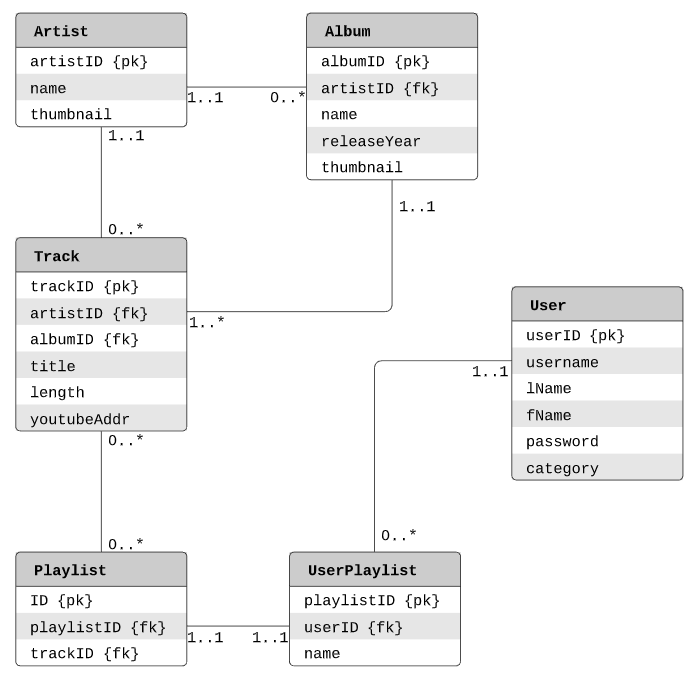
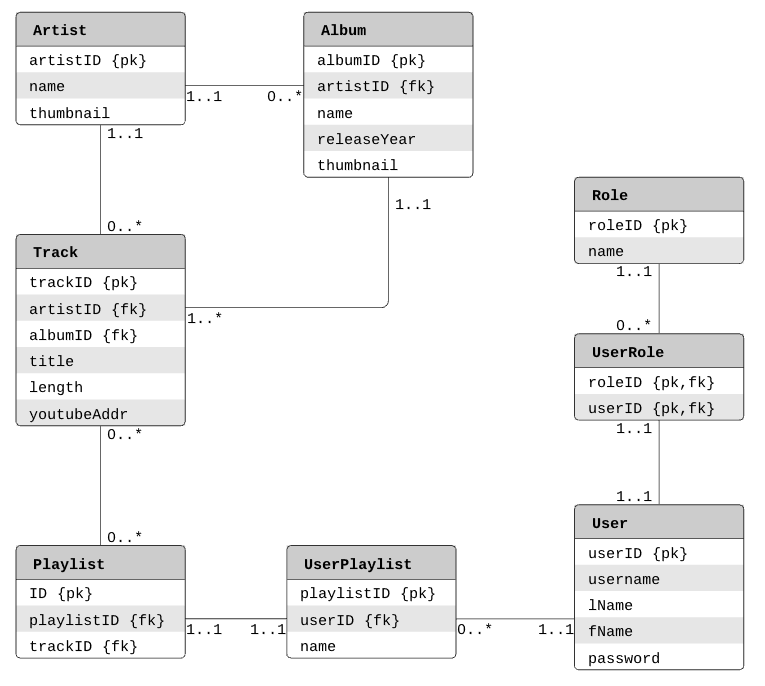
Modify the database structure

Changed region(s): [[0.0, 0.0, 0.691, 0.9956], [0.6609, 0.2489, 0.9914, 0.9956], [0.5408, 0.4356, 0.5708, 0.4667]]

diff --git a/README.md b/README.md
@@ -45,10 +45,6 @@ This project is to build a website for music streaming service. This website sho
 
 > This table provides details about songs. The table contains Youtube address for each track for play a Youtube clip.
 
-#### User
-
-> This table provides details about members of Watermelon. It contains their personal information of the member, and login credentials. The passwords are encrypted using the **sha256** algorithm, the plain text passwords will not be saved the table.
-
 #### UserPlaylist
 
 > This table provides details about playlists that be created by members.
@@ -57,10 +53,41 @@ This project is to build a website for music streaming service. This website sho
 
 > This table records which tracks are added for each playlist.
 
+#### User
 
-## 2.2. Page Functionality
+> This table provides details about members of Watermelon. It contains their personal information of the member, and login credentials. The passwords are encrypted using the **sha256** algorithm, the plain text passwords will not be saved the table.
 
-### 2.2.1. Search
+#### Role
+
+> This table explains each user role of the website. The role is used for the authorization.
+
+#### UserRole
+
+> This table contains each user's current role.
+
+
+## 2.2. Security
+
+### 2.2.1. URL Parameter Manipulation
+
+There are several routines that checks if a given parameter comes in, directing an artist, album, track, or playlist is using GET requests to specify the ID. This website can detect some invalid approaches by tampering the URL parameter. For example, a playlist can be accessed by the owner, cannot be accessed by other user or an anonymous. If the invalid approaches are detected, the page will display an error message instead.
+
+<p align="center">
+    <img src="/_miscs/security01.PNG">
+</p>
+
+### 2.2.2. SQL Injection
+
+There are some web forms to be submitted for executing queries, searching feature and sign in feature are using POST requests to pass over the parameter to the queries. Since there will be a potential threat of SQL Injection, all inputs from the user will be sanitised on the client-side. Also, the prepared statements are used to avoid SQL Injections on the server-side before the queries are executed.
+
+### 2.2.3. Password Encryption
+
+The passwords stored in the **password** field of the **User** table are encrypted using **sha256** algorithm.
+
+
+## 2.3. Page Functionality
+
+### 2.3.1. Search
 
 <p align="center">
     <img src="/_miscs/search01.PNG">
@@ -79,7 +106,7 @@ If there is no record matching the keyword, the page will display an appropriate
 </p>
 
 
-### 2.2.2. Artist Detail
+### 2.3.2. Artist Detail
 
 <p align="center">
     <img src="/_miscs/artist01.PNG">
@@ -88,7 +115,7 @@ If there is no record matching the keyword, the page will display an appropriate
 The user can view detail information about a specific artist. The page shows the profile image, name of the artist, and a list of all albums by the artist. The list displays a thumbnail, a name, and the year released for each album. The user will be able to access each album if they want to view the details of a specific album.
 
 
-### 2.2.3. Album Detail
+### 2.3.3. Album Detail
 
 <p align="center">
     <img src="/_miscs/album01.png">
@@ -97,7 +124,7 @@ The user can view detail information about a specific artist. The page shows the
 The user can view detail information about a specific album. The page shows the album cover image, album title, artist name, the year the album was released, and a list of all songs from the album. The list displays a song title, and its length. The user can access each song if they want to view the details of a specific title.
 
 
-### 2.2.4. Track Detail
+### 2.3.4. Track Detail
 
 <p align="center">
     <img src="/_miscs/track01.png">
@@ -106,7 +133,7 @@ The user can view detail information about a specific album. The page shows the 
 The user can view detail information about a specific track. The page shows the cover image, track title, album title, track length, and a Youtube clip to play the song using the Youtube track address.
 
 
-### 2.2.5. Playlist
+### 2.3.5. Playlist
 
 <p align="center">
     <img src="/_miscs/mylist01.png">
@@ -114,16 +141,10 @@ The user can view detail information about a specific track. The page shows the 
 
 Playlists can only be created and accessed by logged-in users. Playlists belongs to a specific user; logged-in user cannot access any other user's playlist. Anonymous cannot create or access the playlists. Logged-in user can access the page for the members which display the name of the user, the category of the user, and a list of all playlist names. The user can access each playlist from the list.
 
-The web form to create a new playlist is hidden and will appear when the user click the hyperlink, by JavaScript.
+The web form to create a new playlist is hidden and will appear when the user click the hyperlink, by JavaScript. Once the form is submitted and it is valid, an empty new playlist will be added to the list.
 
 <p align="center">
     <img src="/_miscs/mylist02.png">
-</p>
-
-Once the form is submitted and it is valid, an empty new playlist will be added to the list.
-
-<p align="center">
-    <img src="/_miscs/mylist03.PNG">
 </p>
 
 <hr />
@@ -139,15 +160,11 @@ The user can view detail contents of a specific playlist. The page shows the own
 The web form to add a track to playlists is hidden to anonymous but only seen by logged-in users. The user can add the song to their playlist(s) by clicking the hyperlink. A number of playlists can be chosen at the same time.
 
 <p align="center">
-    <img src="/_miscs/mylist05.PNG">
-</p>
-
-<p align="center">
     <img src="/_miscs/mylist06.PNG">
 </p>
 
 
-### 2.2.6. User Authentication
+### 2.3.6. User Authentication
 
 <p align="center">
     <img src="/_miscs/auth01.PNG">
@@ -161,36 +178,48 @@ The logged-in user can see their name and the category on the left-side of the n
     <img src="/_miscs/auth02.PNG">
 </p>
 
-## 2.3. Security
-
-### 2.3.1. URL Parameter Manipulation
-
-There are several routines that checks if a given parameter comes in, directing an artist, album, track, or playlist is using GET requests to specify the ID. This website can detect some invalid approaches by tampering the URL parameter. For example, a playlist can be accessed by the owner, cannot be accessed by other user or an anonymous. If the invalid approaches are detected, the page will display an error message instead.
-
-<p align="center">
-    <img src="/_miscs/security01.PNG">
-</p>
-
-### 2.3.2. SQL Injection
-
-There are some web forms to be submitted for executing queries, searching feature and sign in feature are using POST requests to pass over the parameter to the queries. Since there will be a potential threat of SQL Injection, all inputs from the user will be sanitised on the client-side. Also, the prepared statements are used to avoid SQL Injections on the server-side before the queries are executed.
-
-### 2.3.3. Password Encryption
-
-The passwords stored in the **password** field of the **User** table are encrypted using **sha256** algorithm.
 
 # 3. Installation
 
-1. Establish a database on the server by executing quries in `/DBquery` folder
-2. Create `conn.php` in the `/Watermelon` folder
-3. Modify `conn.php` to invoke connection to the database (see below for the details)
-4. Upload all contents in the `Watermelon` folder on the server
+## 3.1. Sample Database
+
+You can establish a sample database on the server by executing quries in `/DBquery` folder.
+
+1. `createTables.sql`
+2. `insertRecords_Artist.sql`
+3. `insertRecords_Album.sql`
+4. `insertRecords_Track.sql`
+5. `insertRecords_User.sql`
+6. `insertRecords_UserPlaylist.sql`
+7. `insertRecords_Playlist.sql`
+8. `insertRecords_Role.sql`
+9. `insertRecords_UserRole.sql`
+
+<hr />
+
+The password stored in the **password** field of the **User** table are encrypted using the **sha256** algorithm. These are the plain text passwords for the sample database records.
+
+Username | Password
+---------|----------
+admin    |p@ssw0rd
+pringles |original
+ringfit  |adventure
+refresh  |eyedrop
+
+
+## 3.2. Main Website
+
+Once the database is established, the website can be operational by following steps.
+
+1. Create `conn.php` in the `/Watermelon` folder
+2. Modify `conn.php` to invoke connection to the database (see below for the details)
+3. Upload all contents in the `Watermelon` folder on the server
 
 <hr />
 
 #### conn.php
 
->To connect to the database, `conn.php` file with the following PHP code is needed:
+> To connect to the database, `conn.php` file with the following PHP code is needed:
 ```
 <?php
    $dbConn = new mysqli("localhost", "USERNAME", "PASSWORD", "DATABASE_NAME");
